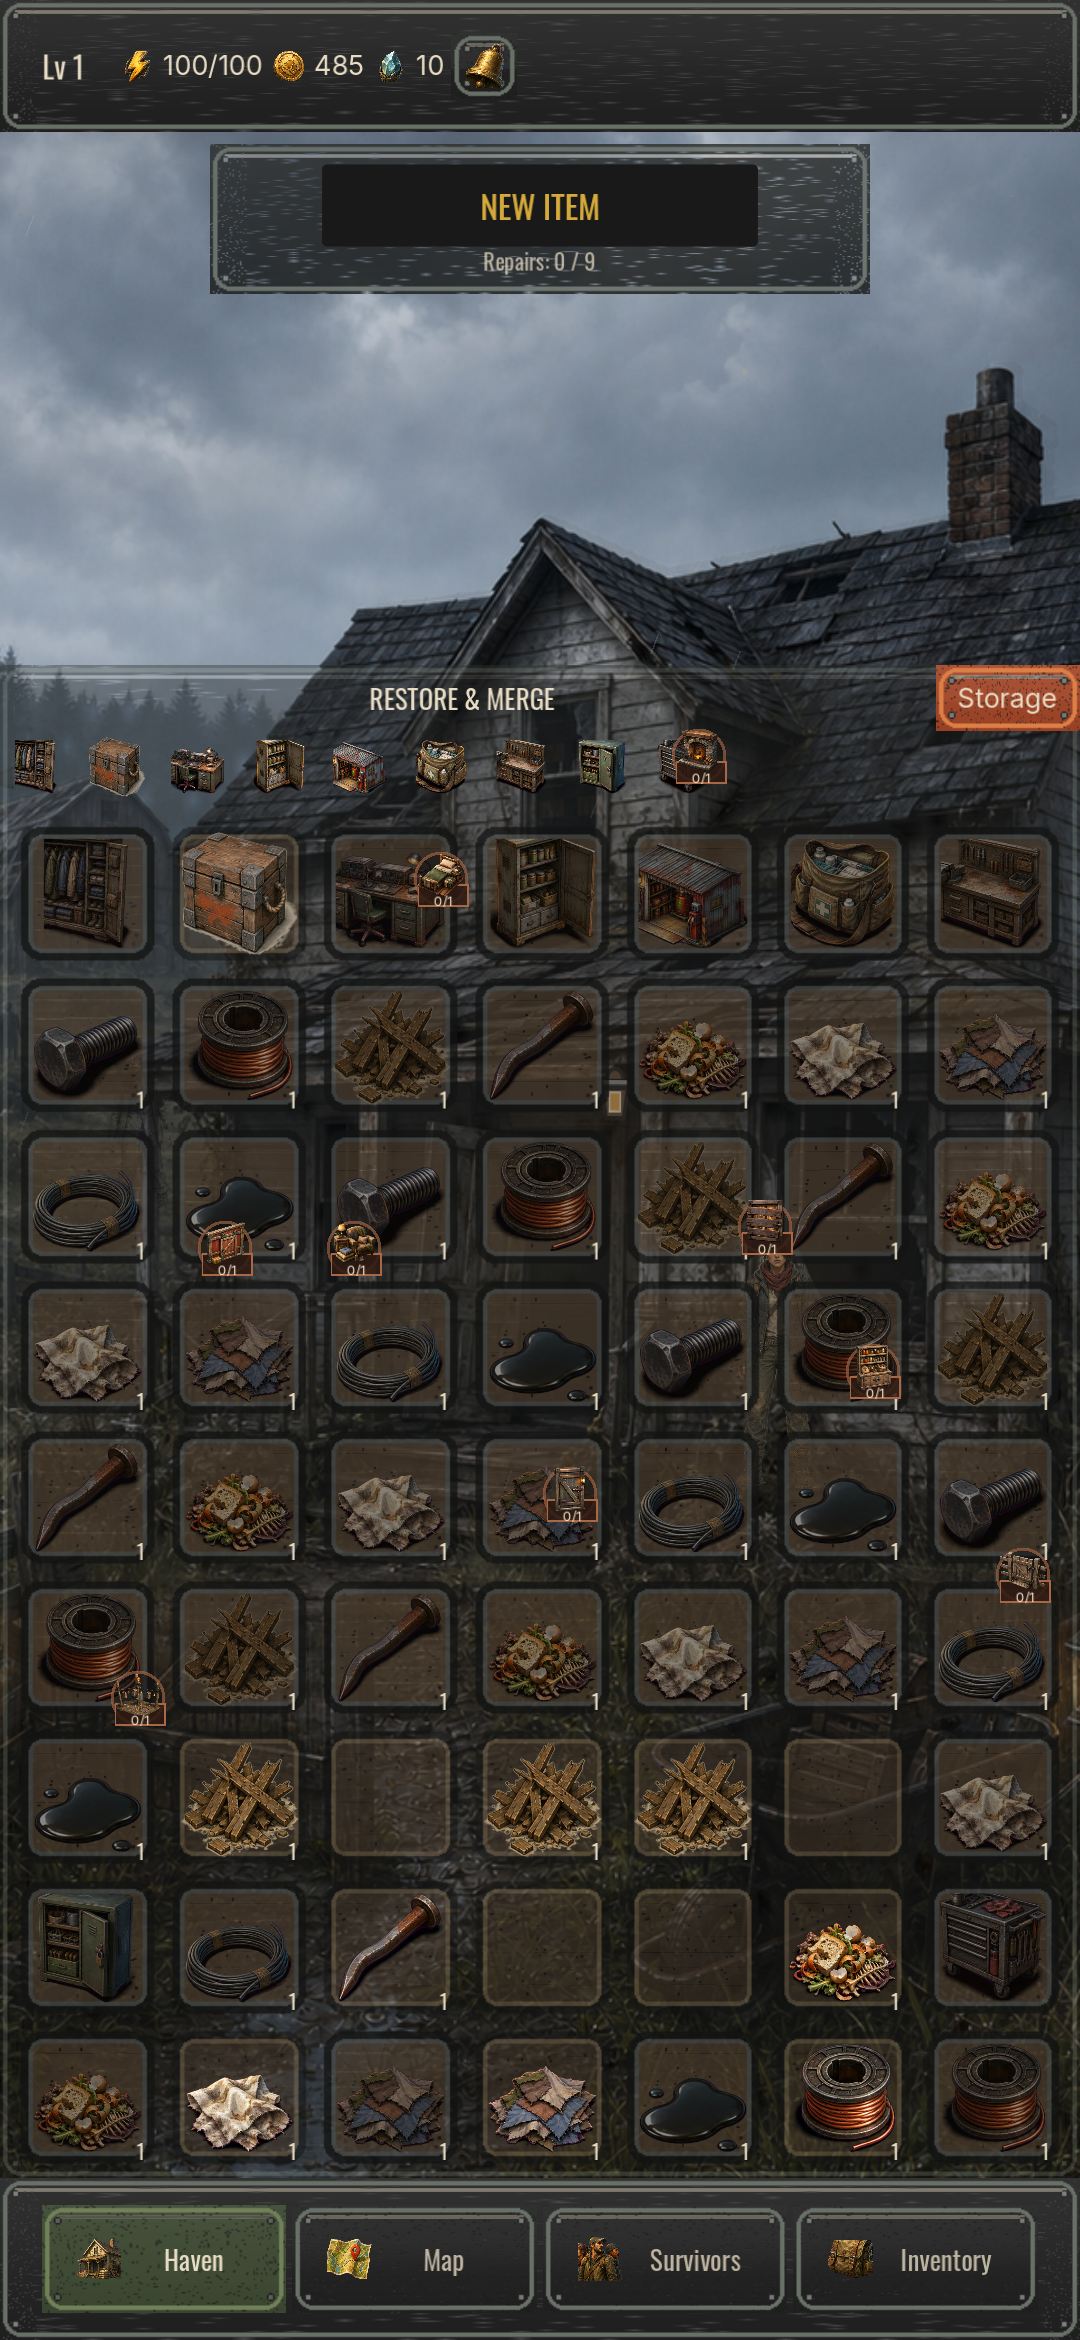
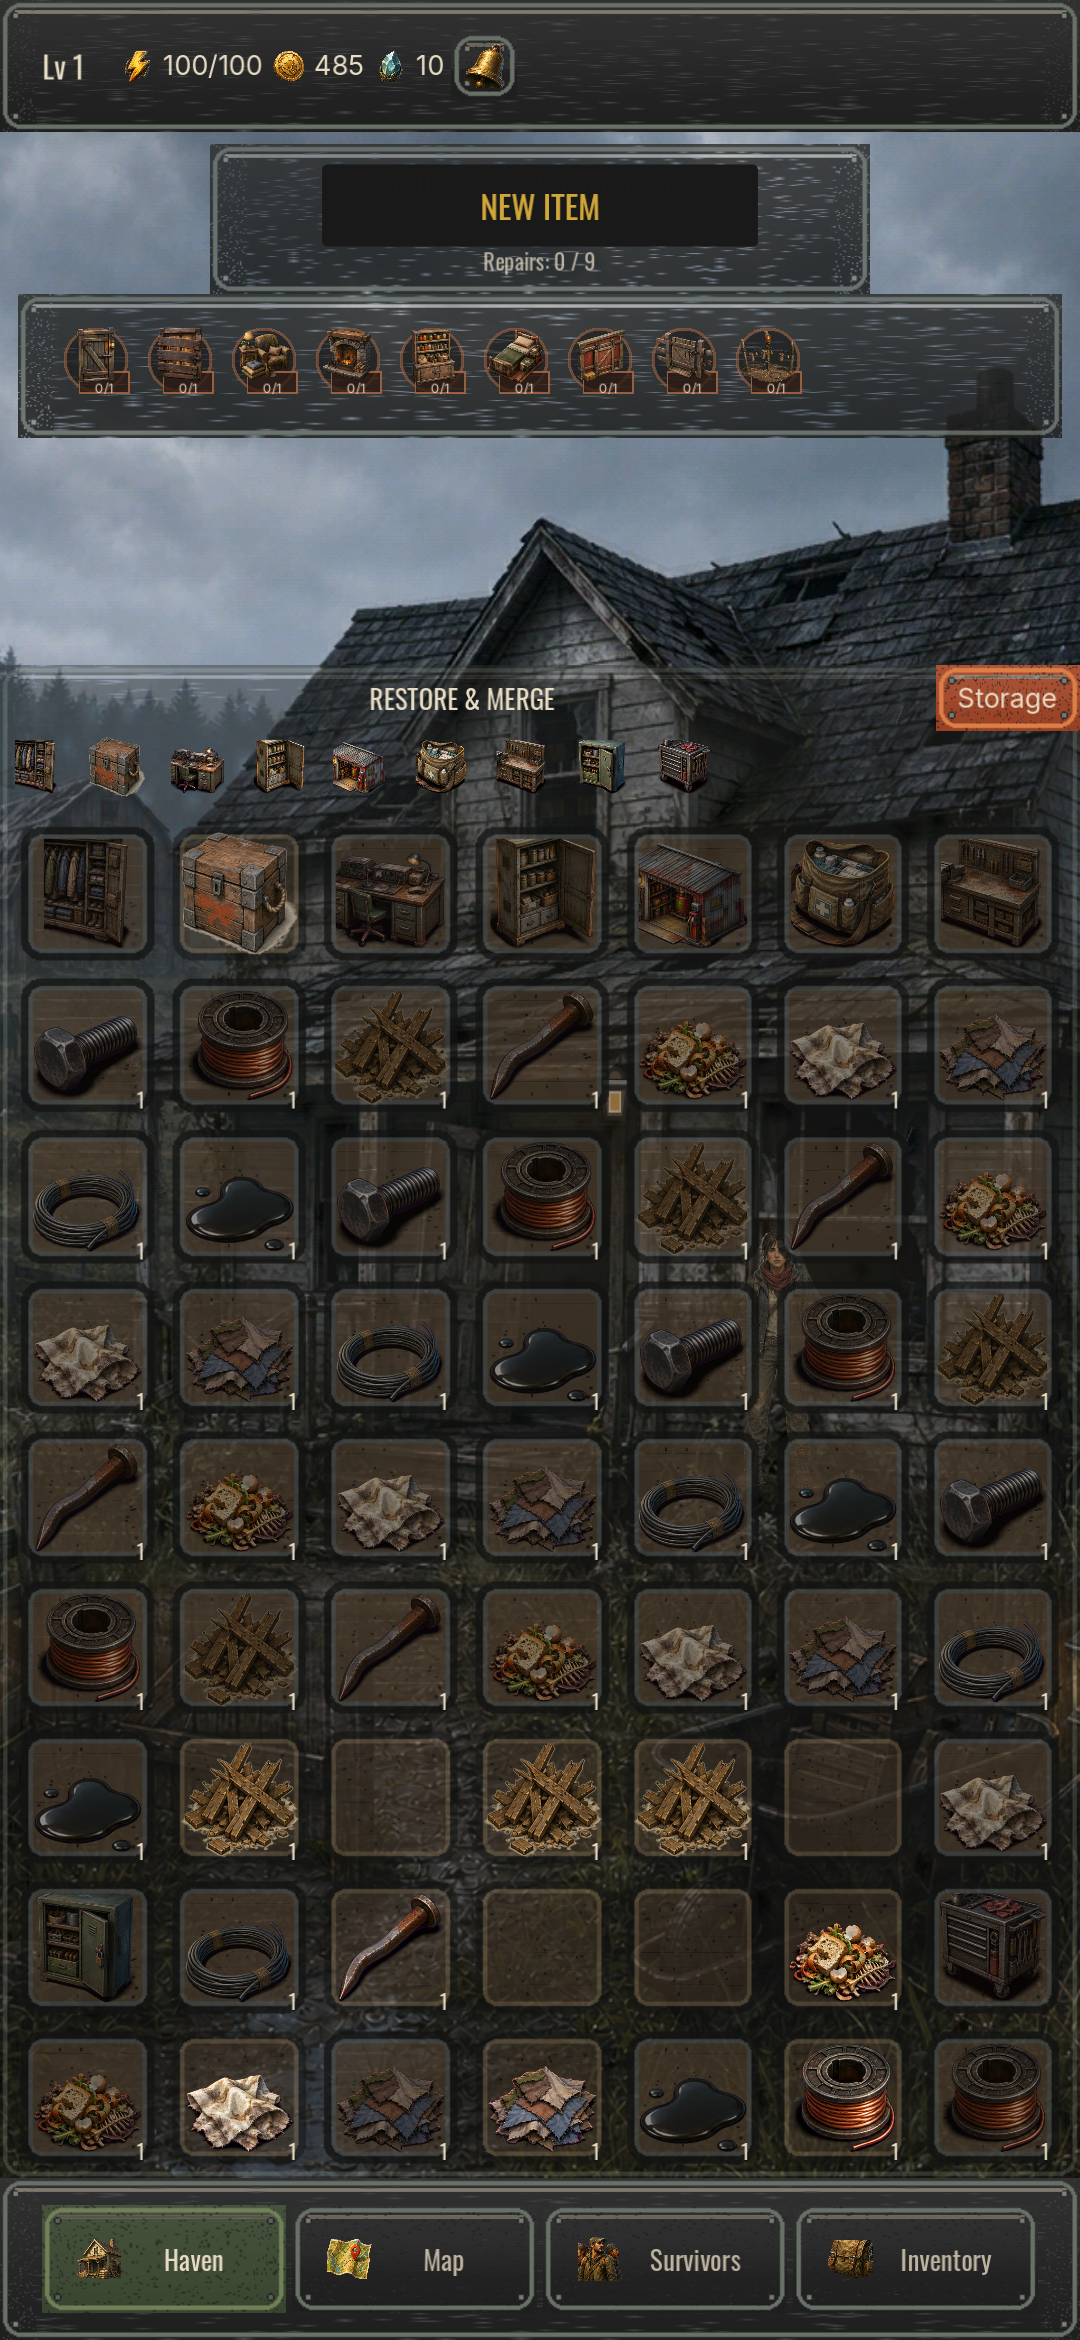
Move repair-task badges off the merge board into their own strip
The previous corner-badge fix stopped hotspot markers from fully blocking
board items, but they still sat on top of the grid, which isn't how
reference merge games present tasks/requests. Moved them into a horizontal
task strip above the board (mirroring the merge board's own chain-legend
strip pattern) across all five residences, so the board itself is now
completely clean - every cell shows only its own item.

Claude-Session: https://claude.ai/code/session_01Tb6RaP4iV42N178jByxJDc

diff --git a/DEVELOPMENT_LOG.md b/DEVELOPMENT_LOG.md
@@ -7,6 +7,33 @@ each one.
 
 ---
 
+## 2026-08-05 — Follow-up: repair tasks off the board grid entirely
+
+### Starting commit and objective
+
+- Starting commit: `8e33e64` on `visual-production` (the merge of this same day's real-device bug-fix batch below and Codex's Android import-optimisation batch).
+- Objective: the user's reply to the previous entry's fixes was that the game "still" isn't close to what they asked for in a merge game, referencing Merge Mansion again. An `AskUserQuestion` asking whether to make the board fully clean/opaque (moving repair tasks into their own panel, closer to the reference games) versus keeping the current translucent room-behind-the-grid look was interrupted/declined by the user rather than answered. Rather than re-ask (already declined once) or leave it unresolved, proceeded on the better-evidenced option: real merge games never place task/request icons on top of the merge grid itself, and the corner-badge fix from the previous entry - while it stopped hotspots from fully blocking items - still had them sitting on the grid, which was never how the reference games do it.
+
+### Change: hotspot markers move into a dedicated task strip above the board
+
+- Previously `HotspotVisual` markers (even after the previous entry's 40x40 corner-badge shrink) were still absolutely positioned on top of specific board cells via `hotspot.area_position`, still visually and functionally part of the grid. Moved them into a new horizontal `ScrollContainer` strip (`HotspotStrip`, styled like the existing `HeaderPlate`/`CharcoalPanel` chrome) sitting between the residence name/chapter/progress header and the embedded board panel, mirroring the merge board's own `ChainLegend` scroll-strip pattern already used one screen below it. Applied identically across all five residence scenes/controllers (`scenes/haven`, `scenes/northgate`, `scenes/redwater`, `scenes/greybridge`, `scenes/saint_mercy`).
+- `_build_hotspot()` in each residence controller no longer does any anchor/offset math against `hotspot.area_position` - it just adds the `HotspotVisual` as a normal child of the strip's `HBoxContainer`, which lays them out automatically. `HOTSPOT_SIZE` changed from a 40x40 corner badge to a 48x48 strip icon (matching `ChainLegendIcon`'s own 48x48). `HOTSPOT_CORNER_BIAS` is gone entirely - there's no longer a "corner" to bias toward.
+- `hotspot.area_position` itself is untouched in the data and is still used for the repair camera-focus zoom effect (`_play_repair_camera_sequence()`), which pans/zooms the residence art behind the header on task completion - that effect is about the residence artwork, not the board, so it's unaffected by where the task badge itself now lives.
+- Net effect: the embedded board is now completely clean - every cell shows only its own merge item, nothing else drawn or positioned on top of it - while repair/decoration requests read as a proper task list, tap-to-open exactly as before.
+
+### Tests performed
+
+- `tests/smoke_test.gd`'s per-residence embedded-board check previously asserted `Layout/Scene/Hotspots` existed directly under the scene root with `mouse_filter == MOUSE_FILTER_IGNORE` (a pass-through check that only made sense for the old full-screen overlay architecture). Updated to resolve `%Hotspots` (now nested inside the strip) and assert the strip's own rect ends above the board panel's top edge instead - the actual invariant this change is meant to guarantee. Caught and fixed before considering this done, not after a false pass.
+- Full suite re-run: `smoke_test` (all 5 residences instantiate and pass the updated embedded-board check), `smoke_test_residence`, `smoke_test_redwater(_visual_states)`, `smoke_test_greybridge(_visual_states)`, `smoke_test_saint_mercy(_visual_states)`, `smoke_test_northgate(_visual_states)`, `smoke_test_hollow_creek_hotspot_icons`, `smoke_test_remaining_hotspot_icons`, `smoke_test_northgate_hotspot_icons`, `smoke_test_merge`, `smoke_test_merge_icons`, `smoke_test_save`, `smoke_test_settings`, `smoke_test_ui_skin`, `smoke_test_main_menu_presentation` - all pass.
+- Visual verification: `tests/capture_layout_haven.gd` re-run at 1080x2340 and a one-off equivalent capture of Redwater (built, checked, then deleted - not kept as a permanent test since `capture_layout_haven.gd` already covers the pattern) both show a fully clean 7x9 board with the repair strip as a separate row above it, at the user's own screenshot resolution.
+
+### Known issues and exact next phase
+
+- Still desktop-verified only; needs a fresh APK on the user's device to confirm.
+- Next: get the user's reaction to this build before considering the "merge is nothing like Merge Mansion" thread resolved - if the remaining gap isn't the board clutter, it needs a more specific description (e.g. producer/chain pacing, chest mechanics, animation feel) since the two concrete, evidenced issues found so far (hotspot/board overlap, dialog overflow) are now both addressed.
+
+---
+
 ## 2026-08-05 — Real-device bug fixes: hotspot/board overlap, dialog overflow
 
 ### Starting commit and objective
